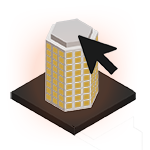
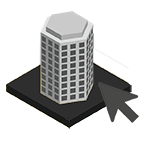
docs added

diff --git a/index.html b/index.html
@@ -9,7 +9,8 @@
     <link href="https://cdn.jsdelivr.net/npm/bootstrap@5.0.2/dist/css/bootstrap.min.css" rel="stylesheet" integrity="sha384-EVSTQN3/azprG1Anm3QDgpJLIm9Nao0Yz1ztcQTwFspd3yD65VohhpuuCOmLASjC" crossorigin="anonymous">
     <!-- Custom CSS -->
     <link href="css/custom.css" rel="stylesheet" type="text/css">
-    <title>Rush Programming</title>
+    <link rel="icon" type="image/png" href="img/favicon.ico">
+    <title>Daniel Rush</title>
   </head>
   <body>
     <!-- Navigation -->
@@ -45,7 +46,7 @@
                 <img class="img img-fluid" src="img/r_symbol_logo.png" alt="Daniel Rush Logo" width="400" height="400">
                 <br>
                 <h1 class="fw-bolder">Daniel Rush</h1>
-                <p class="lead fw-normal text-white-50 mb-0">Web3 Development / Audio Programming / UE5 & Unity</p>
+                <p class="lead fw-normal text-white-50 mb-0">Web3 Dev / Game Dev / Audio Programmer</p>
                 <p></p>
                 <a class="btn btn-lg btn-light" href="#section-1">Find out more</a>
             </div>
@@ -167,14 +168,14 @@
             <img src="img/city_380x290.png" id="city-image" usemap="#city-map" width="380" height="290">
 
             <map name="city-map">
-                <area class="city-areas info-city-1" data-info="1" data-src="img/city_glow1_380x290.png" target="_blank" alt="NFTropolis" title="NFTropolis" href="http://nftropolis.co.uk" coords="50,87,65,62,92,58,120,75,121,155,111,176,74,181,50,167" shape="poly">
-                <area class="city-areas info-city-2" data-info="2" data-src="img/city_glow2_380x290.png" target="_blank" alt="VRIG" title="VRIG" href="https://drush.github.io" coords="168,200,168,119,188,109,254,148,254,228,201,258,180,246,179,208" shape="poly">
-                <area class="city-areas info-city-3" data-info="3" data-src="img/city_glow3_380x290.png" target="_blank" alt="UE5" title="UE5" href="" coords="239,139,239,93,264,76,289,94,309,82,334,96,336,182,310,195,283,181,283,164,263,175,254,169,251,145" shape="poly">
-                <area class="city-areas info-city-4" data-info="4" data-src="img/city_glow4_380x290.png" target="_blank" alt="Extra" title="Extra" href="" coords="136,107,137,27,183,1,234,30,234,111,217,121,180,99,151,116" shape="poly">
-                <area class="city-areas info-city-5" data-info="5" data-src="img/city_floor1_380x290.png" target="_blank" alt="floor 1" title="floor 1" href="" coords="5,164,6,153,50,128,50,164,75,181,111,175,121,155,122,126,167,152,166,157,89,202,89,212" shape="poly">
-                <area class="city-areas info-city-6" data-info="6" data-src="img/city_floor2_380x290.png" target="_blank" alt="floor 2" title="floor 2" href="" coords="115,227,116,217,167,188,167,200,178,209,178,245,201,258,253,228,253,202,279,218,279,228,199,275" shape="poly">
-                <area class="city-areas info-city-7" data-info="7" data-src="img/city_floor3_380x290.png" target="_blank" alt="floor 3" title="floor 3" href="" coords="300,217,299,207,254,181,254,168,264,175,283,164,284,180,310,193,335,180,336,145,371,165,371,175" shape="poly">
-                <area class="city-areas info-city-8" data-info="8" data-src="img/city_floor4_380x290.png" target="_blank" alt="floor 4" title="floor 4" href="" coords="121,105,121,87,136,79,136,106,151,115,179,99,217,119,234,112,235,87,239,88,237,116,219,127,187,109,168,120,166,132" shape="poly">
+                <area class="city-areas info-city-1" data-info="1" data-src="img/city_glow1_380x290.png" alt="NFTropolis" title="NFTropolis" coords="50,87,65,62,92,58,120,75,121,155,111,176,74,181,50,167" shape="poly">
+                <area class="city-areas info-city-2" data-info="2" data-src="img/city_glow2_380x290.png" alt="VRIG" title="VRIG" coords="168,200,168,119,188,109,254,148,254,228,201,258,180,246,179,208" shape="poly">
+                <area class="city-areas info-city-3" data-info="3" data-src="img/city_glow3_380x290.png" alt="UE5" title="UE5" coords="239,139,239,93,264,76,289,94,309,82,334,96,336,182,310,195,283,181,283,164,263,175,254,169,251,145" shape="poly">
+                <area class="city-areas info-city-4" data-info="4" data-src="img/city_glow4_380x290.png" alt="Extra" title="Extra" coords="136,107,137,27,183,1,234,30,234,111,217,121,180,99,151,116" shape="poly">
+                <area class="city-areas info-city-5" data-info="5" data-src="img/city_floor1_380x290.png" alt="floor 1" title="floor 1" coords="5,164,6,153,50,128,50,164,75,181,111,175,121,155,122,126,167,152,166,157,89,202,89,212" shape="poly">
+                <area class="city-areas info-city-6" data-info="6" data-src="img/city_floor2_380x290.png" alt="floor 2" title="floor 2" coords="115,227,116,217,167,188,167,200,178,209,178,245,201,258,253,228,253,202,279,218,279,228,199,275" shape="poly">
+                <area class="city-areas info-city-7" data-info="7" data-src="img/city_floor3_380x290.png" alt="floor 3" title="floor 3" coords="300,217,299,207,254,181,254,168,264,175,283,164,284,180,310,193,335,180,336,145,371,165,371,175" shape="poly">
+                <area class="city-areas info-city-8" data-info="8" data-src="img/city_floor4_380x290.png" alt="floor 4" title="floor 4" coords="121,105,121,87,136,79,136,106,151,115,179,99,217,119,234,112,235,87,239,88,237,116,219,127,187,109,168,120,166,132" shape="poly">
             </map>
           </div>
           
@@ -186,8 +187,6 @@
 
                 </p>
             <img src="img/city_hover_building.png">
-
-            <img src="img/city_hover_floor.png"><Br>
                 <p class="lead fw-normal text-white-50 mb-0 resize-text">Foundations for the tools used and click for the source code.</p>
             
             <p>&nbsp;</p>
@@ -238,12 +237,41 @@
     </div>
     </section>
 
-    <section id="section-3">
-      
-    </section>
-
-
-
+<!-- Section 3 -->
+<section id="section-3">
+    <div class="container">
+      <div class="row">
+        <div class="col-lg-12 text-center">
+          <h2 class="section-heading text-uppercase">Docs</h2>
+          <h3 class="section-subheading text-muted">Search and access all of my documents.</h3>
+        </div>
+      </div>
+      <div class="row justify-content-center">
+        <div class="col-md-6">
+          <form>
+            <div class="input-group mb-3">
+              <input type="text" class="form-control" id="search-docs" placeholder="Search for a document" aria-label="Search for a document" aria-describedby="button-search">
+              <button class="btn btn-primary" type="button" id="button-search">Search</button>
+            </div>
+          </form>
+        </div>
+      </div>
+      <div class="row justify-content-center">
+        <div class="col-md-6">
+          <div class="list-group" id="docs-list">
+            <a href="https://drive.google.com/file/d/1zpClECZUYm0ycQwoiRl_AdwzwAD2zXmr/view?usp=sharing" class="list-group-item list-group-item-action">CV (2023)</a>
+            <a href="https://drive.google.com/file/d/1M3mloHgu2gp9fHh07nmo0v9iPWDZ8eOf/view?usp=share_link" class="list-group-item list-group-item-action">Spatial Audio Experiment</a>
+            <a href="https://drive.google.com/file/d/1TfCXZ-RpoPgVS_7G8z7ib7U8IQV1i5NP/view?usp=sharing" class="list-group-item list-group-item-action">Max Blofeld Controller</a>
+          </div>
+        </div>
+      </div>
+      <div class="row justify-content-center mt-3">
+        <div class="col-md-6 text-center">
+          <a href="#section-3" class="btn btn-primary btn-lg" id="view-all-docs">View All</a>
+        </div>
+      </div>
+    </div>
+  </section>
             <!-- Contact section-->
             <section id="contact" class=" bg-light">
                 <div class="container px-4">
@@ -258,7 +286,8 @@
                                 <a href="https://vimeo.com/user111763959" target="_blank"><img src="img/vimeoico.png" width="43" height="43" alt="Vimeo" class="socialMedia"></a>				
                                 <a href="https://github.com/drush92" target="_blank"><img src="img/githubico.png" alt="GitHub" class="socialMedia"></a>
                                 <a href="https://discordapp.com/users/e30ydj#6096" target="_blank"><img src="img/discordico.png" alt="Discord" class="socialMedia"></a>
-                              </p>	                    </div>
+                            </p>	                    
+                        </div>
                     </div>
                 </div>
             </section>
@@ -278,5 +307,6 @@
     -->
     <script type="module" src="js/taco.js"></script>
     <script type="module" src="js/city.js"></script>
+    <script type="module" src="js/docs.js"></script>
   </body>
 </html>

diff --git a/js/docs.js b/js/docs.js
@@ -1,0 +1,36 @@
+// Get the search input and docs list elements
+const searchInput = document.querySelector('#search-docs');
+const docsList = document.querySelector('#docs-list');
+
+// Get the list items in the docs list
+const docs = Array.from(docsList.children);
+
+// Add an event listener to the search input to filter the docs list on input
+searchInput.addEventListener('input', () => {
+const searchTerm = searchInput.value.toLowerCase();
+
+// Filter the docs list based on the search term
+const filteredDocs = docs.filter(doc => {
+const docName = doc.textContent.toLowerCase();
+return docName.includes(searchTerm);
+});
+
+// Show only the filtered docs
+docs.forEach(doc => {
+if (!filteredDocs.includes(doc)) {
+doc.classList.add('d-none');
+} else {
+doc.classList.remove('d-none');
+}
+});
+});
+
+// Add an event listener to the "View All" button to show all docs
+const viewAllButton = document.querySelector('#view-all-docs');
+viewAllButton.addEventListener('click', () => {
+docs.forEach(doc => {
+doc.classList.remove('d-none');
+});
+
+searchInput.value = '';
+});

diff --git a/css/custom.css b/css/custom.css
@@ -100,3 +100,8 @@ align-items: center;
     font-size: 26px;
   }
 }
+
+/* Hide the list items that don't match the search */
+.list-group-item.d-none {
+  display: none;
+}
